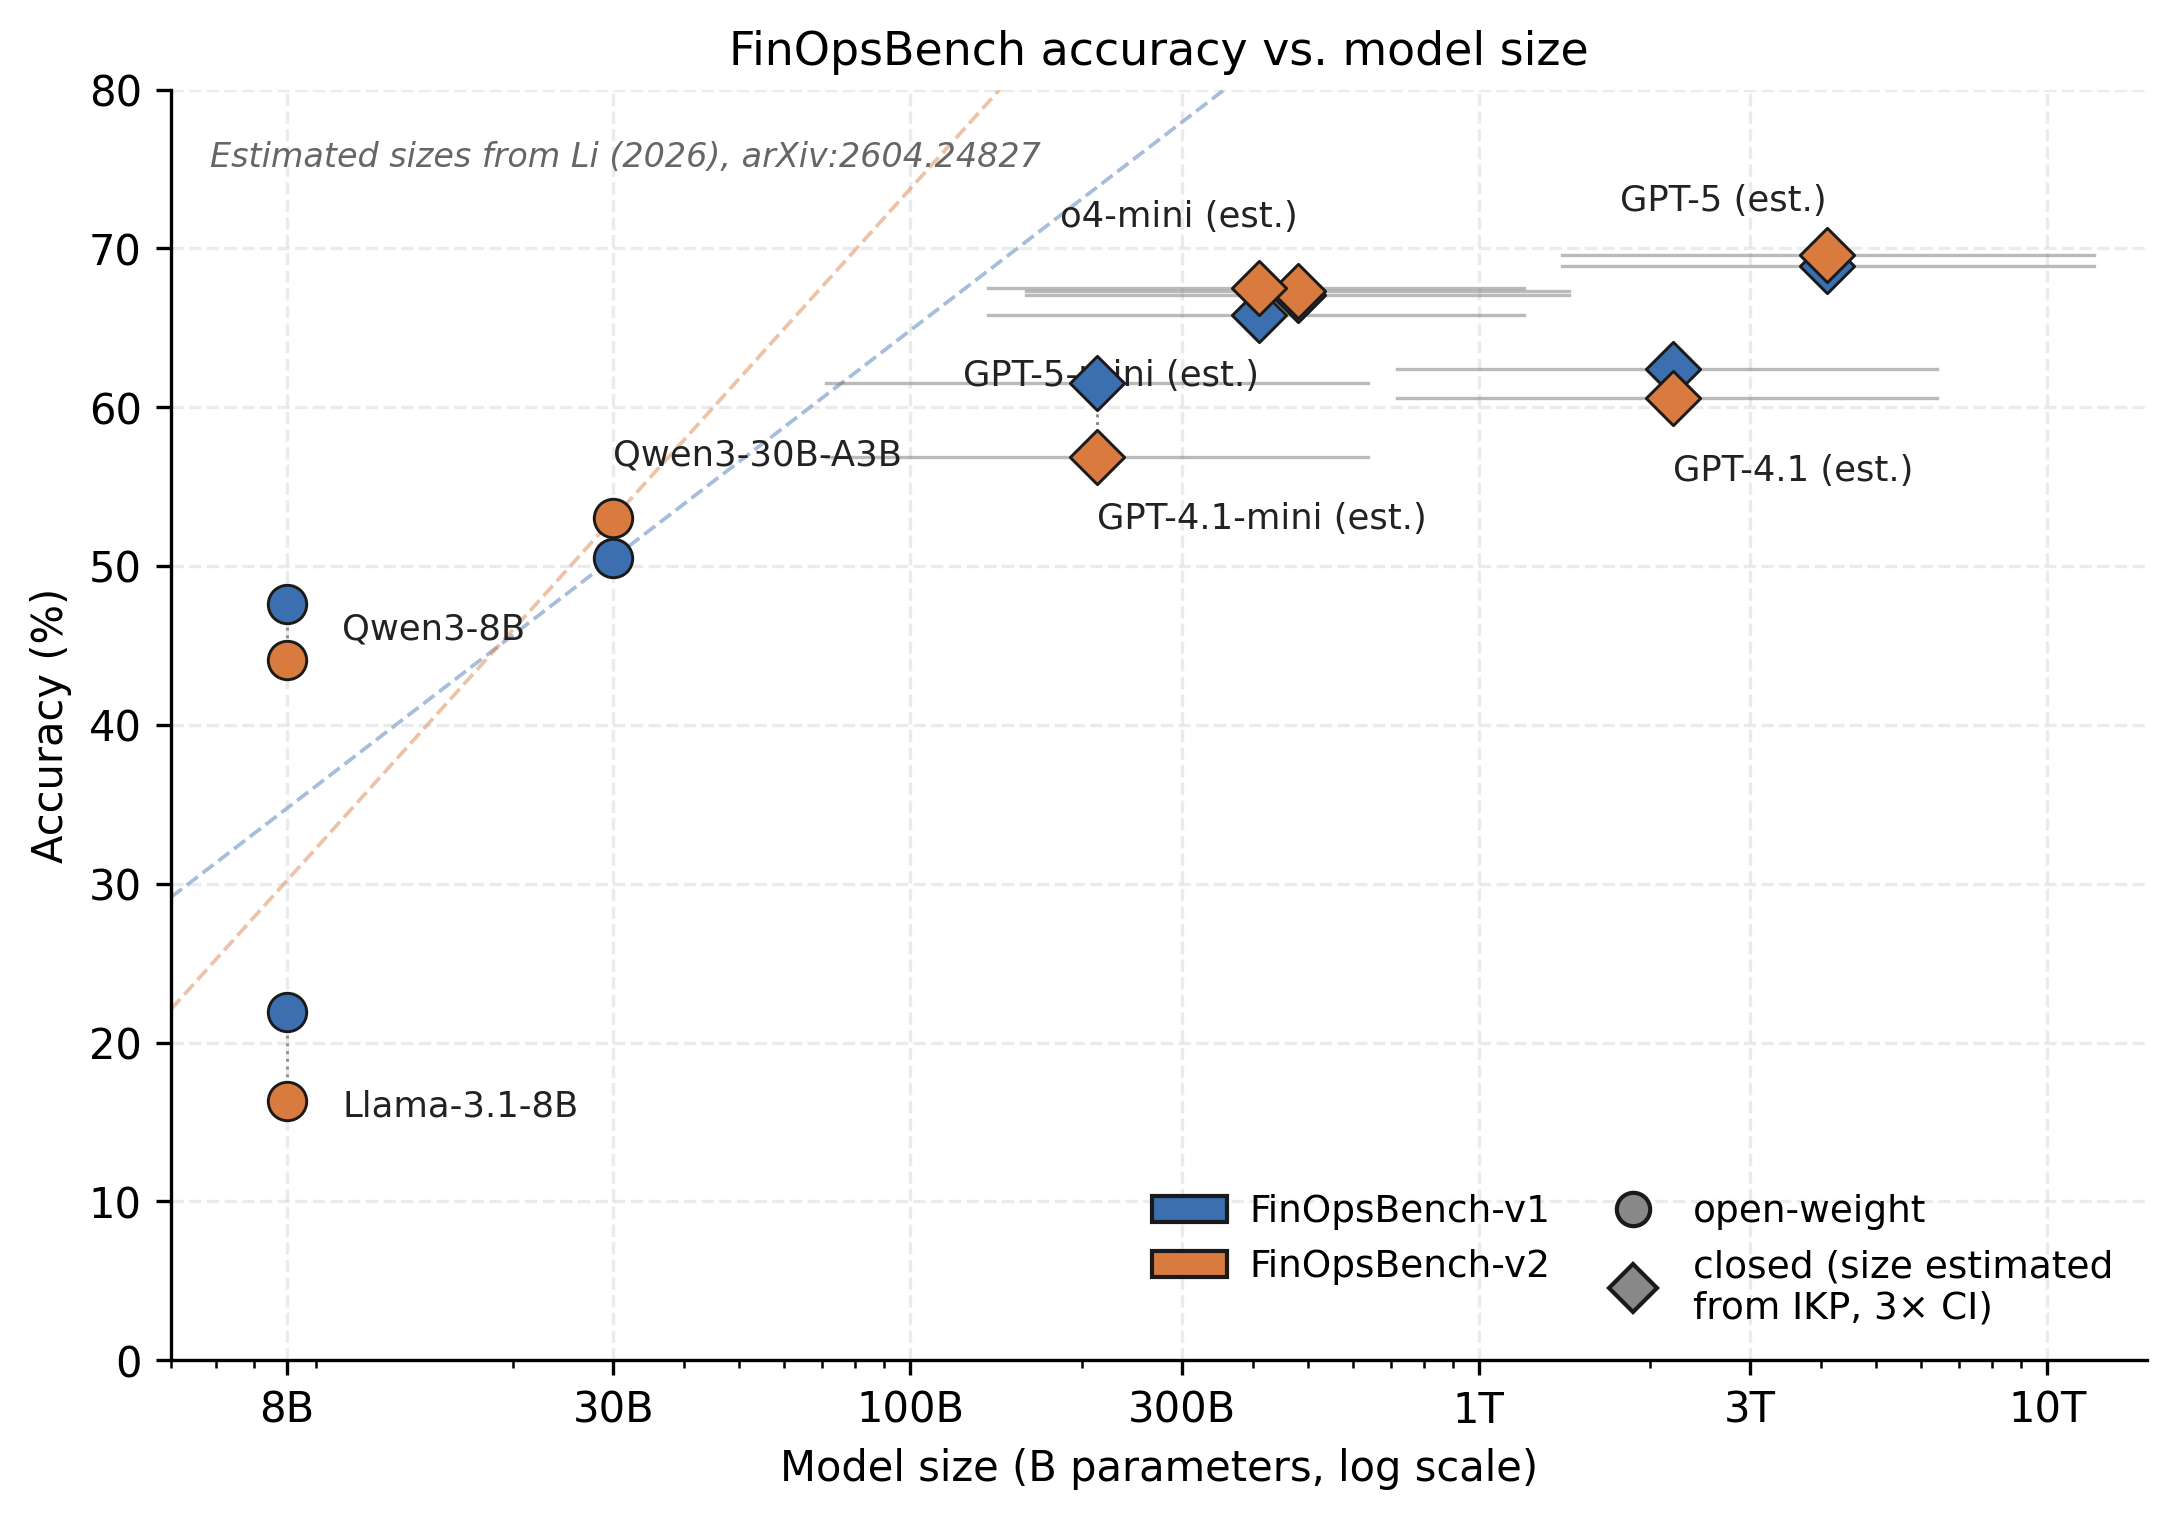
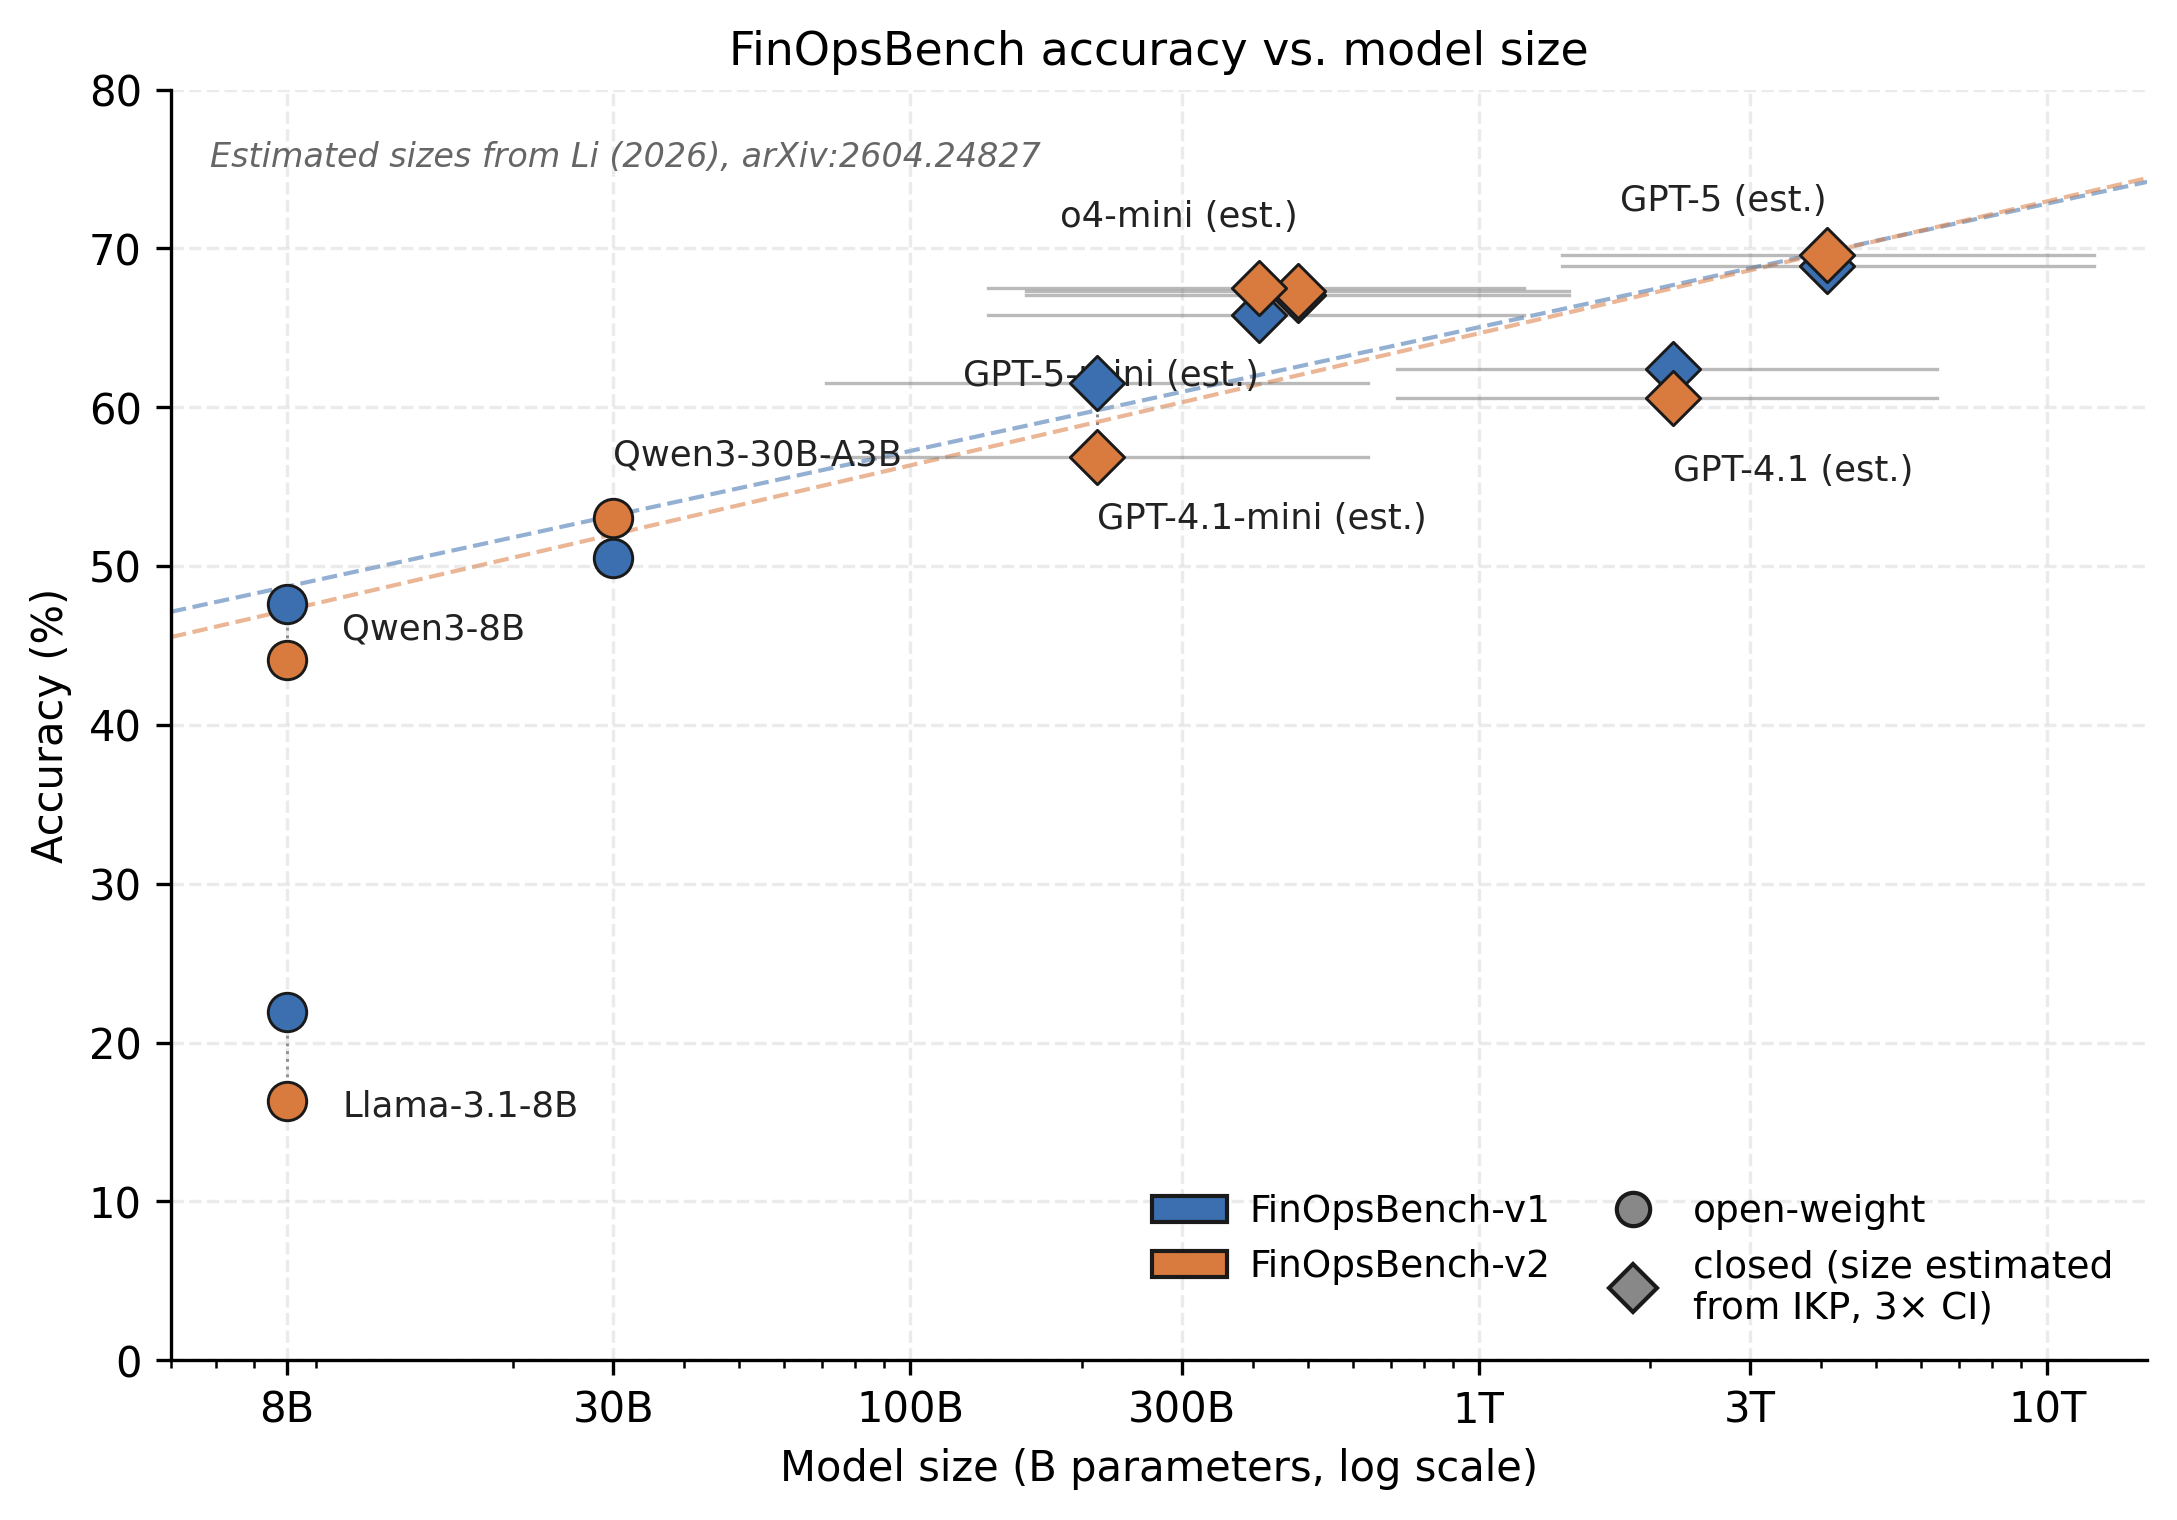
dataset paper: refit accuracy-vs-size regression excluding Llama-3.1-8B
Llama-3.1-8B sits well below trend and was distorting the slope
when it was the only weak point in a 3-model fit. The regression
now spans all 7 other models (open-weight + proprietary with
IKP-estimated sizes); Llama stays on the plot as a visible outlier.

Fits:
  v1: acc = 7.79 * log10(N_B) + 41.68
  v2: acc = 8.31 * log10(N_B) + 39.72
  -> ~8 percentage points per decade of parameters

diff --git a/papers/emnlp2026/figures/make_size_scatter.py b/papers/emnlp2026/figures/make_size_scatter.py
@@ -93,23 +93,25 @@ for model, size, _, _, v1, v2, source in MODELS:
     ax.annotate(label, (x, y), fontsize=8.5, ha=ha, va="center",
                 color="#222")
 
-# Log-linear fit using only the known-size open-weight models, then dashed-extend.
-# (Mixing with estimated sizes would be circular.)
-known = [(s, v1, v2) for _, s, _, _, v1, v2, src in MODELS if src == "open"]
-if len(known) >= 2:
-    import numpy as np
-    xs = np.array([math.log10(s) for s, _, _ in known])
-    y1 = np.array([v1 for _, v1, _ in known])
-    y2 = np.array([v2 for _, _, v2 in known])
-    # NOTE: only 3 open-weight points — fit is heavily under-determined; treat
-    # the line as illustrative, not a serious regression.
-    s1, i1 = np.polyfit(xs, y1, 1)
-    s2, i2 = np.polyfit(xs, y2, 1)
-    xx = np.linspace(math.log10(5), math.log10(15000), 100)
-    ax.plot(10 ** xx, s1 * xx + i1, "--", color=COL_V1, linewidth=0.9,
-            alpha=0.45, zorder=1)
-    ax.plot(10 ** xx, s2 * xx + i2, "--", color=COL_V2, linewidth=0.9,
-            alpha=0.45, zorder=1)
+# Log-linear fit over every model except Llama-3.1-8B (it sits well below
+# trend — keep it on the plot but exclude it from the regression so the
+# line reflects the bulk of the population).
+import numpy as np
+fit_models = [(m, s, v1, v2) for m, s, _, _, v1, v2, _ in MODELS
+              if m != "Llama-3.1-8B"]
+xs = np.array([math.log10(s) for _, s, _, _ in fit_models])
+y1 = np.array([v1 for _, _, v1, _ in fit_models])
+y2 = np.array([v2 for _, _, _, v2 in fit_models])
+s1, i1 = np.polyfit(xs, y1, 1)
+s2, i2 = np.polyfit(xs, y2, 1)
+xx = np.linspace(math.log10(5), math.log10(15000), 100)
+ax.plot(10 ** xx, s1 * xx + i1, "--", color=COL_V1, linewidth=1.0,
+        alpha=0.55, zorder=1)
+ax.plot(10 ** xx, s2 * xx + i2, "--", color=COL_V2, linewidth=1.0,
+        alpha=0.55, zorder=1)
+# Print fit equations so they show up in commits/notes.
+print(f"v1 fit (excluding Llama): acc = {s1:.2f} * log10(N_B) + {i1:.2f}")
+print(f"v2 fit (excluding Llama): acc = {s2:.2f} * log10(N_B) + {i2:.2f}")
 
 ax.set_xscale("log")
 ax.set_xlim(5, 15000)
